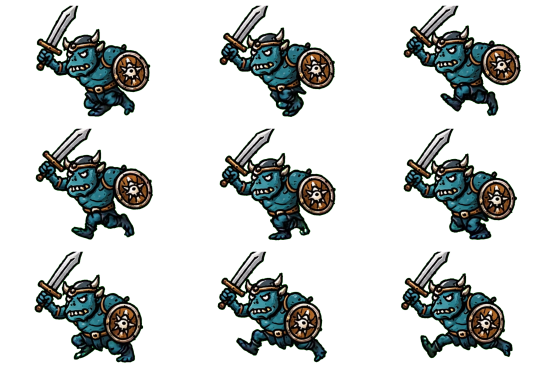
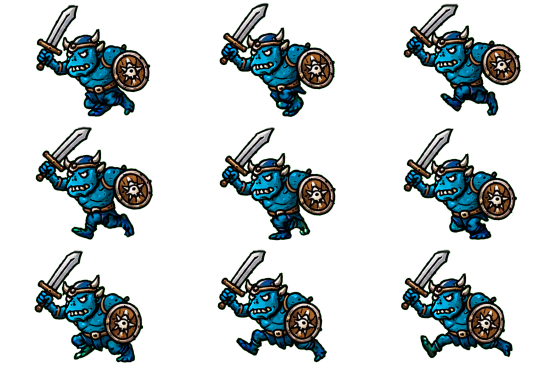
feat: Update enemy color constants and improve goal line setup in GameScene; enhance UIScene event handling

diff --git a/src/scenes/GameScene.ts b/src/scenes/GameScene.ts
@@ -2,7 +2,7 @@ import Phaser from "phaser";
 import { 
   MODES, SCREEN_WIDTH, SCREEN_HEIGHT, SQUAD_SIZE, LANES, 
   HEALTH_MAX, ENEMY_SPEED, FRIENDLY_SPEED, WIN_CONDITION, SHOW_DEBUG_VISUALS, SCORE_PER_UNIT,
-  ENEMY_SPAWN_INTERVAL, ENEMY_SPAWN_SQUADS_PER_INTERVAL
+  ENEMY_SPAWN_INTERVAL, ENEMY_SPAWN_SQUADS_PER_INTERVAL, FRIENDLY_GOAL_X, ENEMY_GOAL_X
 } from "../constants";
 import { spawnParticles, getMultiplier, spawnMultiplier } from "../utils";
 import { Bullet, Enemy, Friendly, spawnItem } from "../entities";
@@ -64,6 +64,11 @@ export class GameScene extends Phaser.Scene {
     this.totalProduced = 0;
     this.producedCounts = [0, 0, 0];
     this.stalematedPairs = new Set();
+
+    // Safety: Ensure UIScene is stopped so it can be clean-launched in create()
+    if (this.scene.isActive("UIScene")) {
+      this.scene.stop("UIScene");
+    }
   }
 
   create() {
@@ -131,7 +136,7 @@ export class GameScene extends Phaser.Scene {
     if (SHOW_DEBUG_VISUALS) {
       this.setupVisualization();
     }
-    this.setupFinishLine();
+    this.setupGoalLines();
     this.setupGroups();
     this.setupBuildings();
     this.setupInput();
@@ -319,39 +324,44 @@ export class GameScene extends Phaser.Scene {
     });
   }
 
-  private setupFinishLine() {
+  private setupGoalLines() {
     const graphics = this.add.graphics();
     graphics.setDepth(-0.5); // Above background (-1), below game elements (0)
     
-    const x = SCREEN_WIDTH - 60; // Slightly inside to be visible
     const dashLength = 20;
     const gapLength = 15;
     const jitter = 2.5;
-    const color = 0x4a4a4a;
-    const alpha = 0.6;
     
-    // Draw twice for a slightly thicker, "ink-bleed" hand-drawn look
-    for (let pass = 0; pass < 2; pass++) {
-      graphics.lineStyle(pass === 0 ? 3 : 2, color, pass === 0 ? alpha : alpha * 0.5);
-      
-      for (let y = 10; y < SCREEN_HEIGHT - 10; y += dashLength + gapLength) {
-        graphics.beginPath();
-        let currentY = y;
+    const drawLine = (x: number, color: number, alpha: number) => {
+      // Draw twice for a slightly thicker, "ink-bleed" hand-drawn look
+      for (let pass = 0; pass < 2; pass++) {
+        graphics.lineStyle(pass === 0 ? 3 : 2, color, pass === 0 ? alpha : alpha * 0.5);
         
-        // Starting point with jitter
-        graphics.moveTo(x + (Math.random() - 0.5) * jitter, currentY + (Math.random() - 0.5) * jitter);
-        
-        // Midpoint for wobbliness
-        const midY = currentY + dashLength / 2;
-        graphics.lineTo(x + (Math.random() - 0.5) * jitter, midY + (Math.random() - 0.5) * jitter);
-        
-        // Endpoint for the dash
-        const endY = currentY + dashLength;
-        graphics.lineTo(x + (Math.random() - 0.5) * jitter, endY + (Math.random() - 0.5) * jitter);
-        
-        graphics.strokePath();
+        for (let y = 10; y < SCREEN_HEIGHT - 10; y += dashLength + gapLength) {
+          graphics.beginPath();
+          let currentY = y;
+          
+          // Starting point with jitter
+          graphics.moveTo(x + (Math.random() - 0.5) * jitter, currentY + (Math.random() - 0.5) * jitter);
+          
+          // Midpoint for wobbliness
+          const midY = currentY + dashLength / 2;
+          graphics.lineTo(x + (Math.random() - 0.5) * jitter, midY + (Math.random() - 0.5) * jitter);
+          
+          // Endpoint for the dash
+          const endY = currentY + dashLength;
+          graphics.lineTo(x + (Math.random() - 0.5) * jitter, endY + (Math.random() - 0.5) * jitter);
+          
+          graphics.strokePath();
+        }
       }
-    }
+    };
+
+    // Friendly Goal Line (on the right)
+    drawLine(FRIENDLY_GOAL_X, 0x4a4a4a, 0.6);
+    
+    // Enemy Goal Line (on the left)
+    drawLine(ENEMY_GOAL_X, 0xff0000, 0.4);
   }
 
   private setupGroups() {
@@ -429,6 +439,12 @@ export class GameScene extends Phaser.Scene {
   }
 
   private setupEventHandlers() {
+    // Clear existing listeners to prevent accumulation if the scene instance is reused
+    this.events.off("bulletMissed");
+    this.events.off("friendlyReachedEnd");
+    this.events.off("friendlyUpdate");
+    this.events.off("requestBomb");
+
     this.events.on("bulletMissed", () => this.updateCombo(0));
     this.events.on("friendlyReachedEnd", (x: number, y: number, color: number) => this.handleFriendlyReachedEnd(x, y, color));
     this.events.on("friendlyUpdate", (f: Friendly) => this.updateFriendlyAI(f));
@@ -490,8 +506,8 @@ export class GameScene extends Phaser.Scene {
 
   private checkBoundaries() {
     (this.enemies.getChildren() as Enemy[]).forEach(e => {
-      if (e.active && e.x < 0) {
-        this.takeDamage(10);
+      if (e.active && e.x < ENEMY_GOAL_X) {
+        this.takeDamage(10, e.x, e.y);
         e.deactivate();
       }
     });
@@ -593,7 +609,7 @@ export class GameScene extends Phaser.Scene {
     this.cameras.main.flash(500, 255, 255, 255);
     this.enemies.getChildren().forEach(obj => {
       const e = obj as Enemy;
-      if (e.active) this.time.delayedCall(Phaser.Math.Between(0, 500), () => { if (e.active) this.killEnemy(e); });
+      if (e.active) this.time.delayedCall(Phaser.Math.Between(0, 200), () => { if (e.active) this.killEnemy(e); });
     });
   }
 
@@ -644,8 +660,11 @@ export class GameScene extends Phaser.Scene {
     if (!bullet.isPierce && bullet.hasHit) return;
 
     if (bullet.col !== enemy.col && !bullet.isRage) {
+      if (!bullet.hasHit) {
+        // Only break combo if the bullet hasn't hit any correct enemies yet
+        this.updateCombo(0);
+      }
       bullet.deactivate();
-      this.updateCombo(0);
       spawnParticles(this, bullet.x, bullet.y, 0x969696);
       return;
     }
@@ -668,7 +687,7 @@ export class GameScene extends Phaser.Scene {
   private handleEnemyBuildingCollision(obj1: Phaser.GameObjects.GameObject, obj2: Phaser.GameObjects.GameObject) {
     const enemy = (obj1 instanceof Enemy ? obj1 : obj2) as Enemy;
     if (!enemy || !enemy.active) return;
-    this.takeDamage(10);
+    this.takeDamage(10, enemy.x, enemy.y);
     enemy.deactivate();
   }
 
@@ -786,15 +805,39 @@ export class GameScene extends Phaser.Scene {
 
   // --- Helper Methods ---
 
-  private takeDamage(amount: number) {
+  private takeDamage(amount: number, sourceX?: number, sourceY?: number) {
     const now = this.time.now;
     if (now < this.lastHurtTime + 200) return;
     
     this.health -= amount;
     this.lastHurtTime = now;
     this.updateCombo(0);
-    this.cameras.main.shake(100, 0.01);
-    this.sound.play("playerHurt", { volume: 0.7 });
+    
+    // More intense camera shake
+    this.cameras.main.shake(300, 0.02);
+    
+    // Flash screen red (duration, red, green, blue)
+    this.cameras.main.flash(200, 255, 0, 0);
+
+    // Dramatic explosion effect at the source or center of base
+    const exX = sourceX ?? this.fortress.x;
+    const exY = sourceY ?? this.fortress.y;
+    
+    // Explosion shockwave
+    const explosion = this.add.circle(exX, exY, 20, 0xff0000, 0.8).setDepth(20);
+    this.tweens.add({
+      targets: explosion,
+      scale: 5,
+      alpha: 0,
+      duration: 400,
+      ease: 'Cubic.easeOut',
+      onComplete: () => explosion.destroy()
+    });
+
+    // Spawn some red particles for debris
+    spawnParticles(this, exX, exY, 0xff0000);
+
+    this.sound.play("playerHurt", { volume: 0.8 });
     this.events.emit("updateHealth", this.health);
     
     if (this.health <= 0) {

diff --git a/src/entities.ts b/src/entities.ts
@@ -1,5 +1,5 @@
 import Phaser from "phaser";
-import { BULLET_SPEED, ENEMY_SPEED, FRIENDLY_SPEED, LANES, SCREEN_WIDTH, SCREEN_HEIGHT, MODES, ENEMY_HP, ENEMY_ELITE_HP } from "./constants";
+import { BULLET_SPEED, ENEMY_SPEED, FRIENDLY_SPEED, LANES, SCREEN_WIDTH, SCREEN_HEIGHT, MODES, ENEMY_HP, ENEMY_ELITE_HP, FRIENDLY_GOAL_X } from "./constants";
 
 export class Bullet extends Phaser.GameObjects.Rectangle {
   declare body: Phaser.Physics.Arcade.Body;
@@ -148,13 +148,14 @@ export class Enemy extends Phaser.GameObjects.Sprite {
         this.eliteParticles.stop();
       }
 
-      if (color === 0x00f2ff) {
+      if (color === MODES[0].color) {
         this.setTexture("enemy_cyan");
         this.play("enemy_cyan_walk", true);
-      } else if (color === 0xff8c00) {
+        this.setScale(0.55);
+      } else if (color === MODES[1].color) {
         this.setTexture("enemy_orange");
         this.play("enemy_orange_walk", true);
-      } else if (color === 0xa020f0) {
+      } else if (color === MODES[2].color) {
         this.setTexture("enemy_purple");
         this.play("enemy_purple_walk", true);
       } else {
@@ -264,17 +265,17 @@ export class Friendly extends Phaser.GameObjects.Sprite {
     this.stalemateTarget = null;
 
     // Specific animation and scaling based on color
-    if (color === 0x00f2ff) {
+    if (color === MODES[0].color) {
       this.setTexture("friend_cyan");
       this.setScale(0.5);
       this.play("friend_cyan_walk", true);
       this.setTint(0xffffff);
-    } else if (color === 0xff8c00) {
+    } else if (color === MODES[1].color) {
       this.setTexture("friend_orange");
       this.setScale(0.5);
       this.play("friend_orange_walk", true);
       this.setTint(0xffffff);
-    } else if (color === 0xa020f0) {
+    } else if (color === MODES[2].color) {
       this.setTexture("friend_purple");
       this.setScale(0.5);
       this.play("friend_purple_walk", true);
@@ -302,8 +303,7 @@ export class Friendly extends Phaser.GameObjects.Sprite {
     if (!this.active) return;
 
     // Check if the friendly crossed the finish line
-    // The finish line is at SCREEN_WIDTH - 60. So when x > SCREEN_WIDTH - 60, we trigger.
-    if (!this.hasScored && this.x > SCREEN_WIDTH - 60) {
+    if (!this.hasScored && this.x > FRIENDLY_GOAL_X) {
       this.hasScored = true;
       this.scene.events.emit("friendlyReachedEnd", this.x, this.y, this.col);
       this.deactivate();
@@ -367,8 +367,11 @@ export function spawnItem(scene: Phaser.Scene, x: number, y: number, type: "bomb
     repeat: 1 // Bounce twice
   });
 
-  scene.events.on("update", (time: number, delta: number) => {
-    if (collected || !container.active) return;
+  const onUpdate = (time: number, delta: number) => {
+    if (collected || !container.active) {
+      scene.events.off("update", onUpdate);
+      return;
+    }
 
     // Update rainbow glow color
     if (glow) {
@@ -394,9 +397,15 @@ export function spawnItem(scene: Phaser.Scene, x: number, y: number, type: "bomb
     if (dist < 20) {
       collected = true;
       onCollect();
+      scene.events.off("update", onUpdate);
       container.destroy();
     }
 
-    if (container.x < -100) container.destroy();
-  });
+    if (container.x < -100) {
+      scene.events.off("update", onUpdate);
+      container.destroy();
+    }
+  };
+
+  scene.events.on("update", onUpdate);
 }

diff --git a/src/scenes/UIScene.ts b/src/scenes/UIScene.ts
@@ -41,6 +41,11 @@ export class UIScene extends Phaser.Scene {
   }
 
   create() {
+    this.currentGold = 0;
+    this.isPaused = false;
+    this.successTexts = [];
+    this.bombLeds = [];
+
     this.createTopBar();
     this.createHealthBar();
     this.createVictoryProgress();
@@ -371,13 +376,20 @@ export class UIScene extends Phaser.Scene {
   private setupEventBindings() {
     const gameScene = this.scene.get("GameScene");
 
+    // Clean up existing listeners if this instance is reused
+    gameScene.events.off("updateHealth", this.onUpdateHealth, this);
+    gameScene.events.off("updateGold", this.onUpdateGold, this);
+    gameScene.events.off("updateSuccess", this.onUpdateSuccess, this);
+    gameScene.events.off("updateBombs", this.onUpdateBombs, this);
+    gameScene.events.off("updateRage", this.onUpdateRage, this);
+
     gameScene.events.on("updateHealth", this.onUpdateHealth, this);
     gameScene.events.on("updateGold", this.onUpdateGold, this);
     gameScene.events.on("updateSuccess", this.onUpdateSuccess, this);
     gameScene.events.on("updateBombs", this.onUpdateBombs, this);
     gameScene.events.on("updateRage", this.onUpdateRage, this);
 
-    this.events.on("shutdown", () => {
+    this.events.once("shutdown", () => {
       gameScene.events.off("updateHealth", this.onUpdateHealth, this);
       gameScene.events.off("updateGold", this.onUpdateGold, this);
       gameScene.events.off("updateSuccess", this.onUpdateSuccess, this);

diff --git a/src/constants.ts b/src/constants.ts
@@ -1,5 +1,5 @@
 export const MODES = [
-  { name: "RAPID", color: 0x00f2ff, cd: 0.2, dmg: 1 },
+  { name: "RAPID", color: 0x00acd9, cd: 0.1, dmg: 1 },
   { name: "BLAST", color: 0xff8c00, cd: 1.5, dmg: 5 },
   { name: "PIERCE", color: 0xa020f0, cd: 1.0, dmg: 3 },
 ];
@@ -21,6 +21,9 @@ export const ENEMY_SPAWN_INTERVAL = 3000;
 export const ENEMY_SPAWN_SQUADS_PER_INTERVAL = 2;
 
 export const LANES = [120, 220, 320, 420, 520];
+
+export const FRIENDLY_GOAL_X = SCREEN_WIDTH - 60;
+export const ENEMY_GOAL_X = 60;
 
 export const SHOW_DEBUG_VISUALS = false;
 
